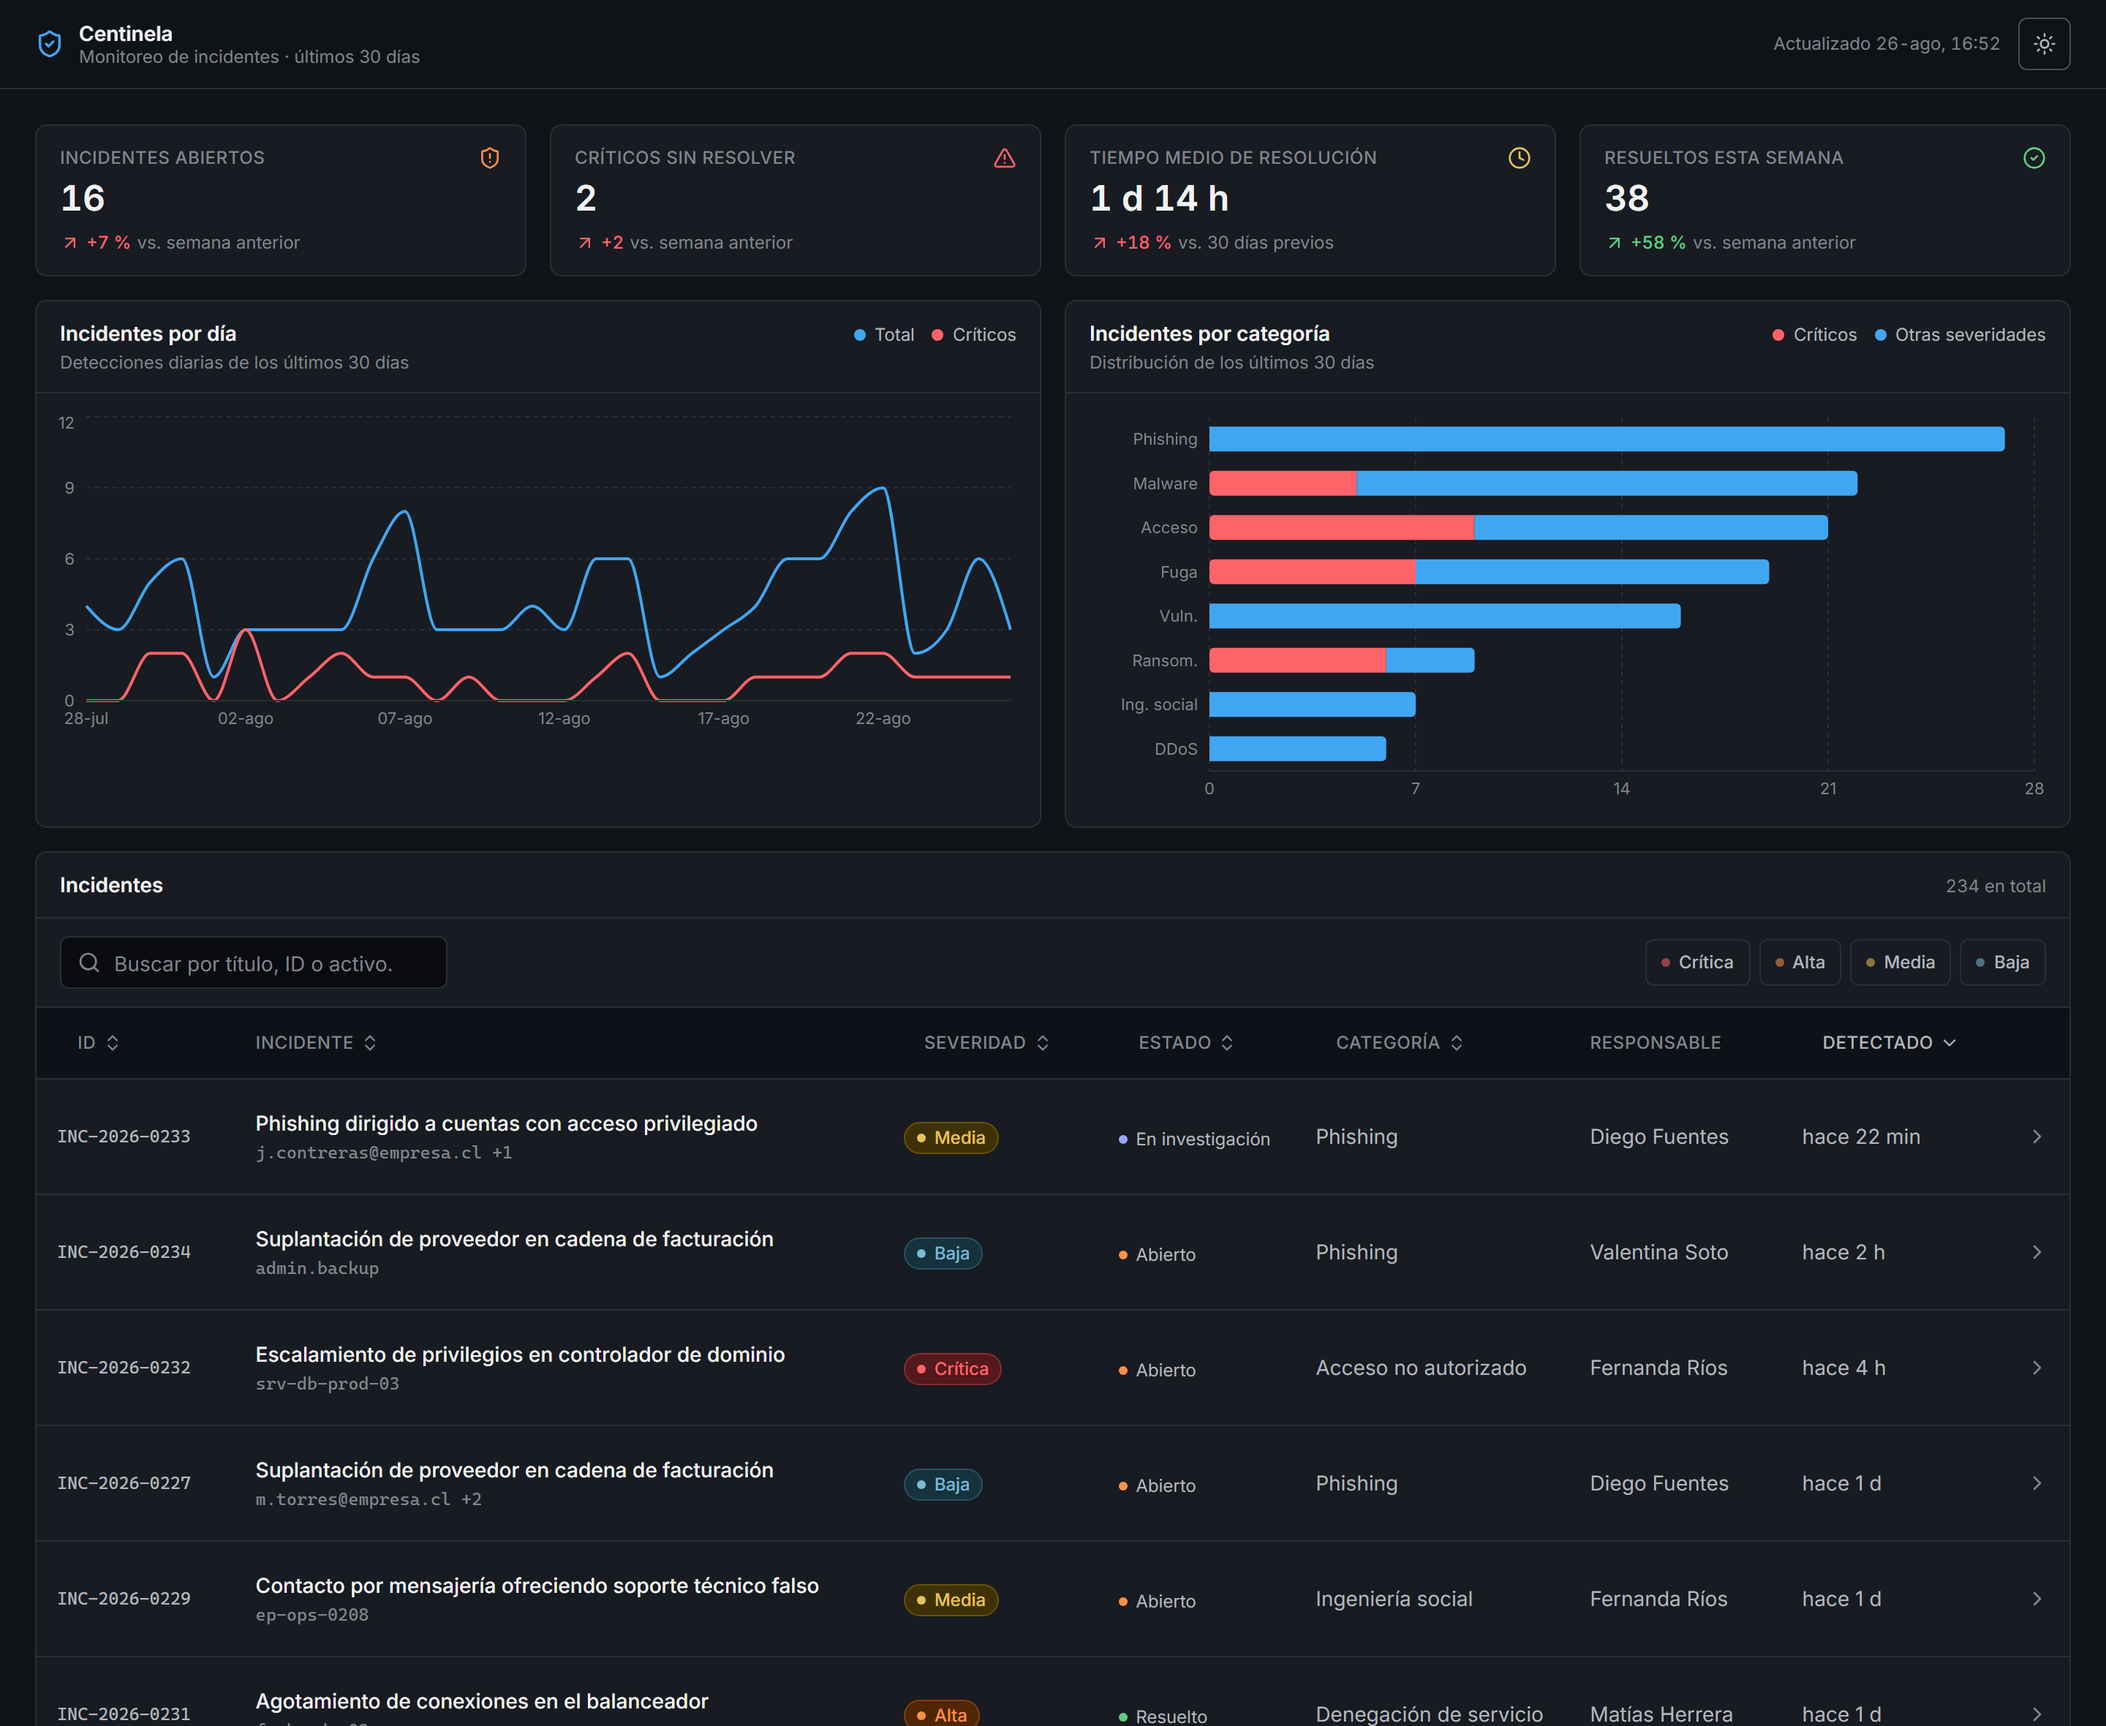
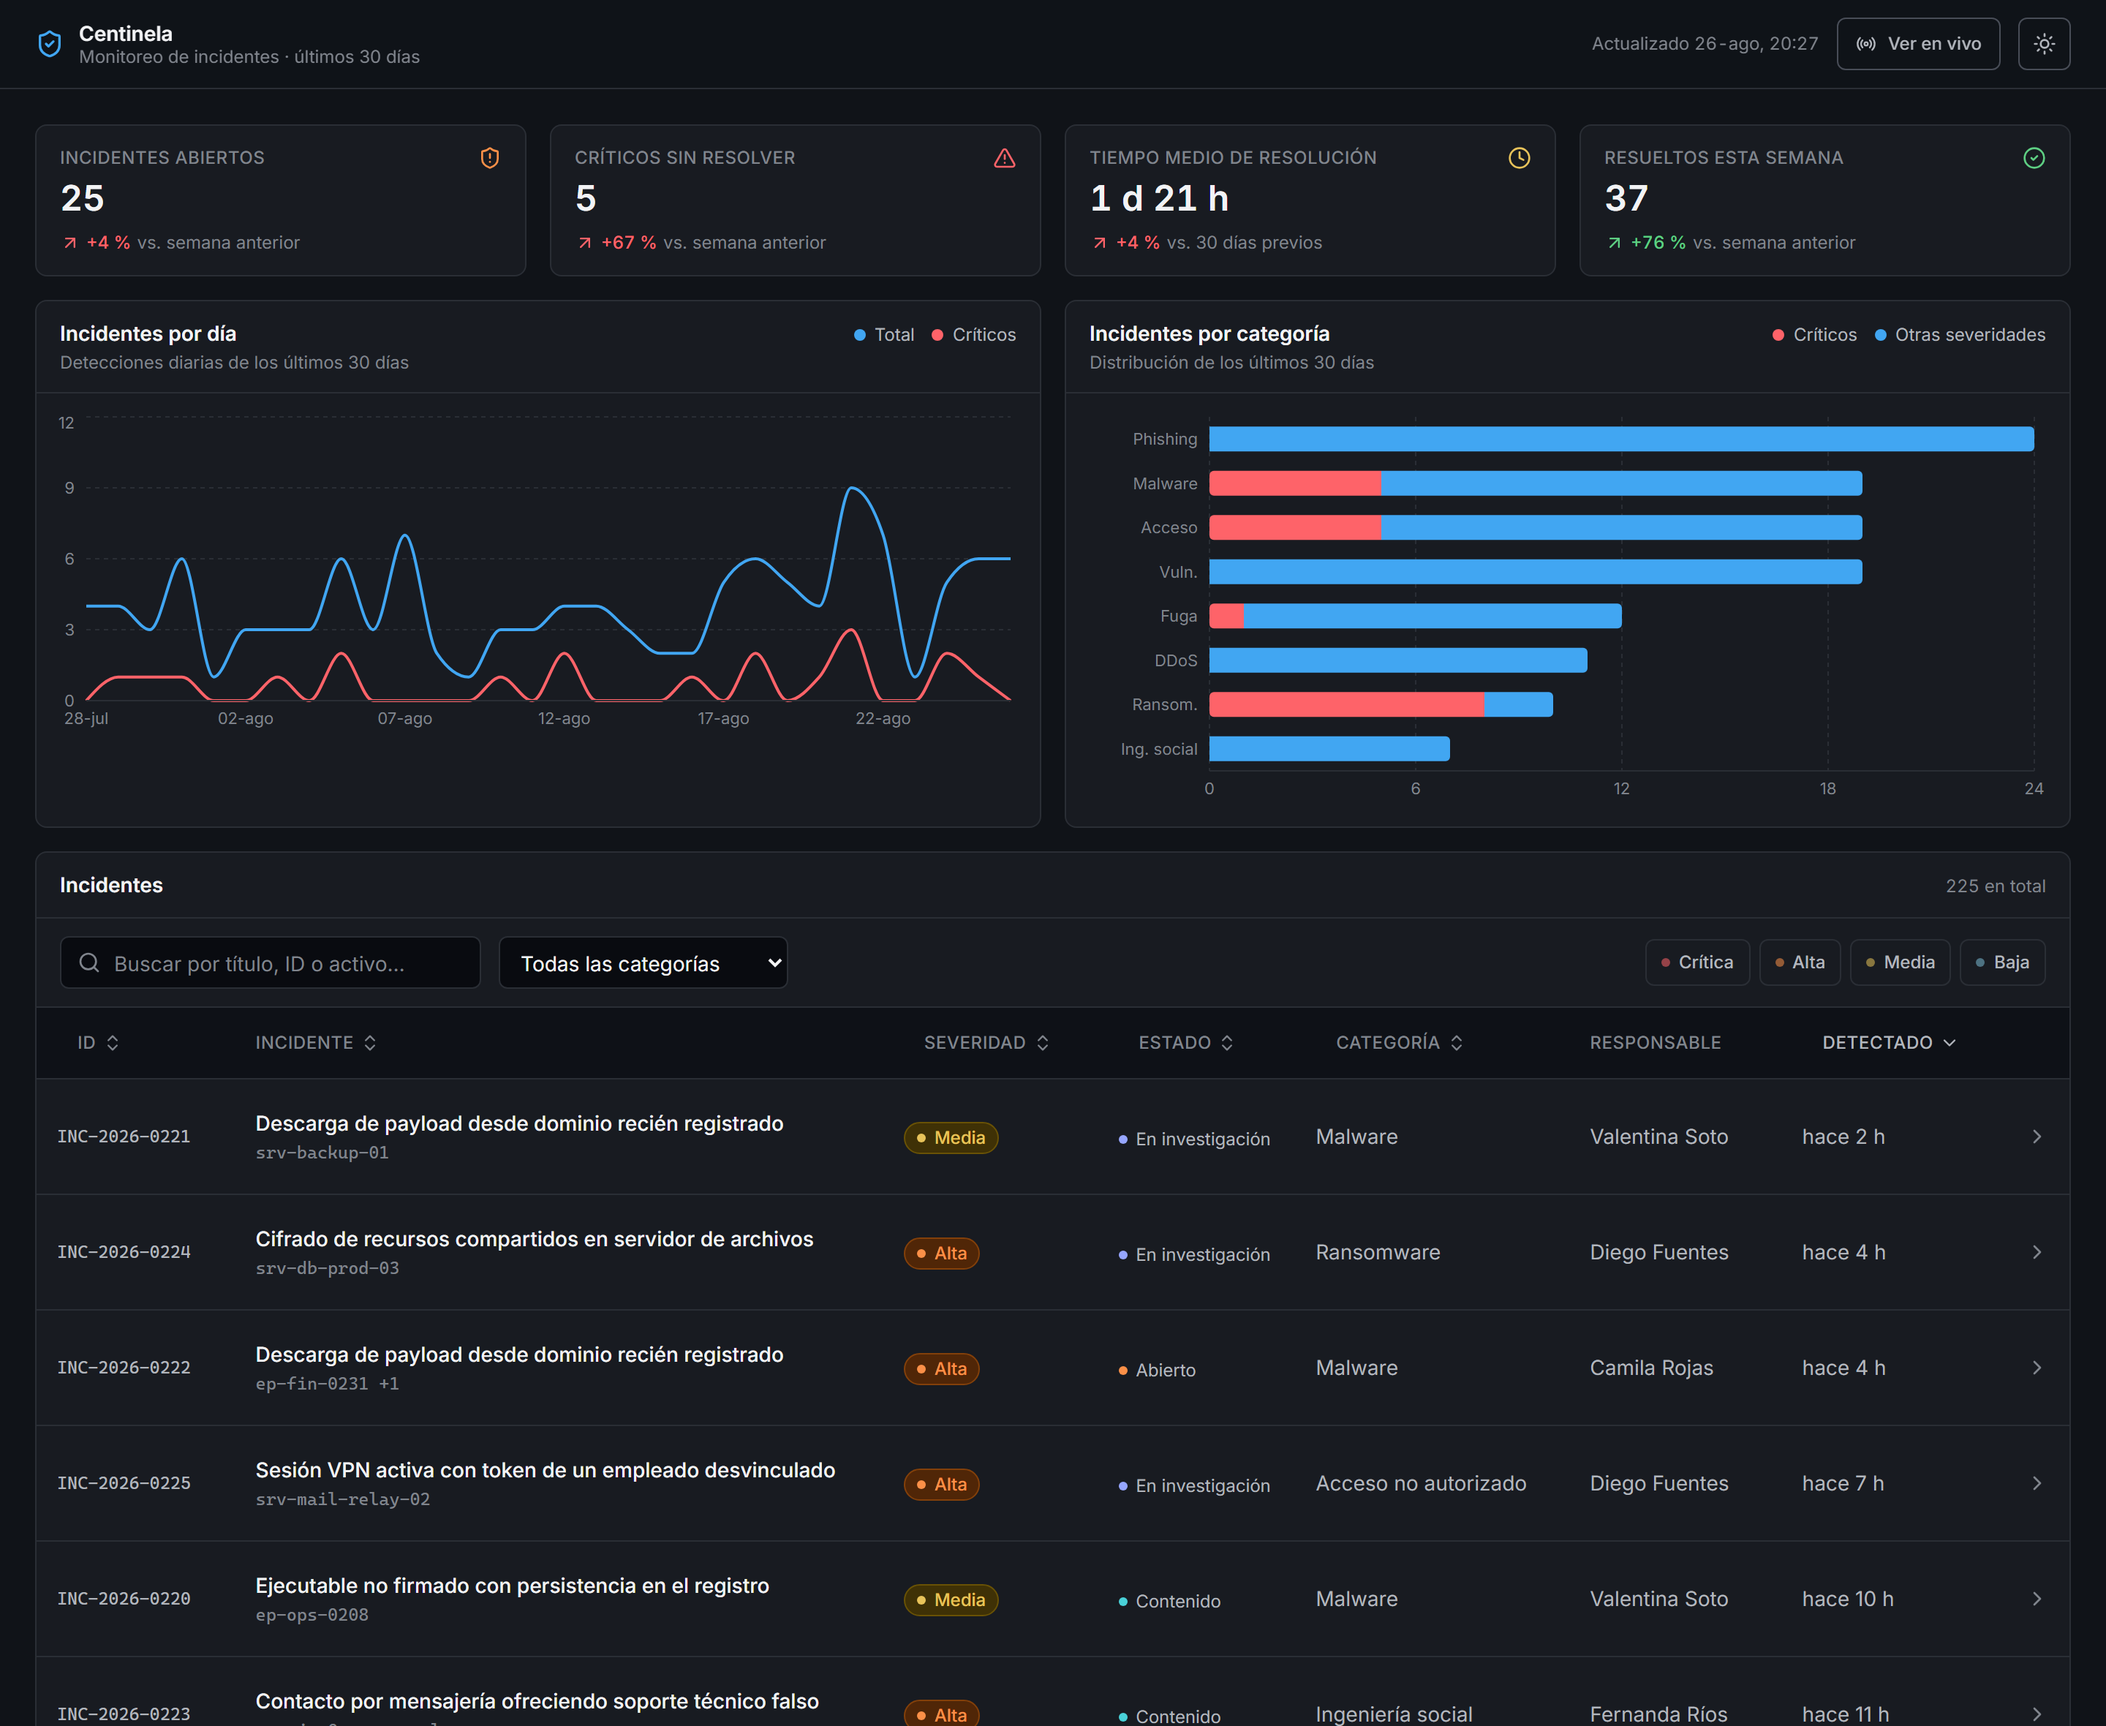
Verifica y documenta las tres funciones nuevas
Las comprobaciones pasan de 45 a 74: el estado que viaja en la URL, los
enlaces compartidos, los parámetros inválidos que deben descartarse, el
botón "atrás" cerrando el panel, el filtrado desde ambos gráficos, la ruta
de teclado equivalente, y que el flujo en vivo no le robe el foco a nadie.

El README documenta el porqué de cada una, incluida la restricción de
accesibilidad que obligó a que la categoría fuera de selección única.

diff --git a/README.md b/README.md
@@ -47,7 +47,7 @@ Queda en `http://localhost:5173`.
 | `npm run preview` | Sirve el build de producción |
 | `npm run typecheck` | Sólo TypeScript |
 | `npm run lint` | oxlint |
-| `npm run verify` | 45 comprobaciones de UI sobre un navegador real |
+| `npm run verify` | 74 comprobaciones de UI sobre un navegador real |
 
 `npm run verify` necesita el servidor de desarrollo levantado y el navegador de
 Playwright instalado:
@@ -74,9 +74,9 @@ src/
 │  │               IncidentCardList, IncidentDetailPanel, SeverityBadge…
 │  ├─ charts/      ChartCard, IncidentsTrendChart, IncidentsByCategoryChart
 │  └─ layout/      AppHeader, ThemeToggle
-├─ hooks/          useIncidents, useTheme, useMediaQuery
-├─ lib/            metrics, filterIncidents, catalog, format, cn
-├─ data/           incidents (generador), templates, random
+├─ hooks/          useIncidents, useTheme, useMediaQuery, useLiveFeed
+├─ lib/            metrics, filterIncidents, urlState, catalog, format, cn
+├─ data/           incidents (generador), liveFeed, templates, random
 ├─ types/          incident, dashboard
 └─ index.css       design tokens
 ```
@@ -130,12 +130,69 @@ apilarse.
 
 <img src="docs/movil.png" width="320" alt="Vista móvil con las métricas apiladas">
 
-### Las métricas y los gráficos no reaccionan a los filtros
+### El estado vive en la URL
 
-Los filtros son una herramienta de triaje sobre el listado. Si además movieran
-los indicadores, sería imposible distinguir "bajaron los incidentes" de
-"filtré la vista". Los indicadores siempre describen los últimos 30 días
-completos.
+Filtros, búsqueda, orden, página e incidente abierto se serializan en la barra
+de direcciones, y `popstate` los vuelve a leer:
+
+```
+?sev=critical,high&cat=ransomware&orden=severity:desc&inc=INC-2026-0231
+```
+
+En una herramienta de monitoreo eso no es un adorno. Un analista pega el enlace
+de "críticos sin resolver de ransomware" en el chat del turno, y recargar
+durante un incidente no puede costarle el contexto.
+
+Dos detalles que hacen la diferencia entre implementarlo y hacerlo bien:
+
+- **Todo va con `replaceState` menos abrir el panel**, que va con `pushState`.
+  Así teclear en la búsqueda no deja una entrada de historial por letra, pero
+  el botón "atrás" del navegador cierra el panel, que es lo que la gente
+  espera. Si se llegó directo con `?inc=…` no hay a dónde volver, y entonces
+  cerrar reemplaza la entrada en lugar de sacar al usuario del sitio.
+- **Todo lo que llega por la URL se valida contra el dominio.** La barra de
+  direcciones es editable: `?sev=inventada&p=-5` se descarta y cae a los
+  valores por defecto, en vez de propagar un tipo mentiroso a la aplicación.
+
+### Filtrar desde los gráficos
+
+Un clic en una barra filtra la tabla por esa categoría; un clic en un punto de
+la línea la filtra por ese día, marcado con una línea de referencia. Volver a
+pulsar deselecciona.
+
+![Tabla filtrada desde el gráfico de categorías](docs/filtro-desde-grafico.png)
+
+El flujo va **sólo en esa dirección**: el gráfico emite el filtro y nunca lo
+recibe. Los indicadores y ambos gráficos siempre describen los últimos 30 días
+completos, porque si también se recortaran sería imposible distinguir "bajaron
+los incidentes" de "filtré la vista".
+
+Hay un matiz de accesibilidad que obligó a rediseñar: **no se puede pulsar una
+barra con el teclado**. Si el gráfico fuera la única vía para filtrar por
+categoría, ese filtro sería inalcanzable sin ratón. Por eso la categoría tiene
+además un `<select>` nativo en la barra de filtros —llega por Tab, se abre con
+el teclado, lo anuncian los lectores de pantalla— y por eso es de selección
+única: así el gráfico y el selector muestran siempre lo mismo, sin estados
+intermedios que reconciliar. La severidad sigue siendo de selección múltiple,
+porque filtrar por "crítica y alta" a la vez sí es triaje corriente.
+
+### Modo en vivo
+
+Un interruptor en la cabecera hace entrar incidentes cada pocos segundos: la
+fila aparece arriba con un realce que se desvanece, el contador de abiertos
+sube y el último punto del gráfico se mueve. Los genera la misma función que
+creó el histórico, así que lo que entra se parece a lo que ya está en la tabla.
+
+Es un almacén observable fuera de React, consumido con `useSyncExternalStore`
+—el intervalo tiene que sobrevivir al montaje y desmontaje de cualquier
+componente— y lo difícil no es que los datos cambien, sino que cambien sin
+molestar: **el foco del teclado no se mueve**, la página mantiene sus 25 filas
+y el scroll no salta. Hay una comprobación dedicada a eso.
+
+**Arranca detenido a propósito.** El dataset base es determinista y de él
+dependen las capturas y las comprobaciones; si el flujo empezara solo, ninguna
+de las dos cosas sería reproducible. El modo en vivo es una capa opcional sobre
+un cimiento que no se mueve.
 
 ### El panel lateral es un `<dialog>` nativo
 
@@ -184,6 +241,12 @@ declara su `higherIsBetter`.
   `prefers-reduced-motion` global.
 - Los gráficos de Recharts son tabulables por su capa de accesibilidad, así que
   llevan `aria-label` propio; sin él anunciarían la concatenación de los ejes.
+- Todo filtro que se puede aplicar con el ratón se puede aplicar con el teclado:
+  la categoría tiene un `<select>` además del gráfico, y el día seleccionado
+  aparece como un chip que es un botón.
+- El interruptor del modo en vivo usa `aria-pressed`, y su latido va bajo
+  `motion-safe`: quien pida menos movimiento ve el punto fijo, que sigue
+  comunicando el estado.
 
 ## Los datos
 
